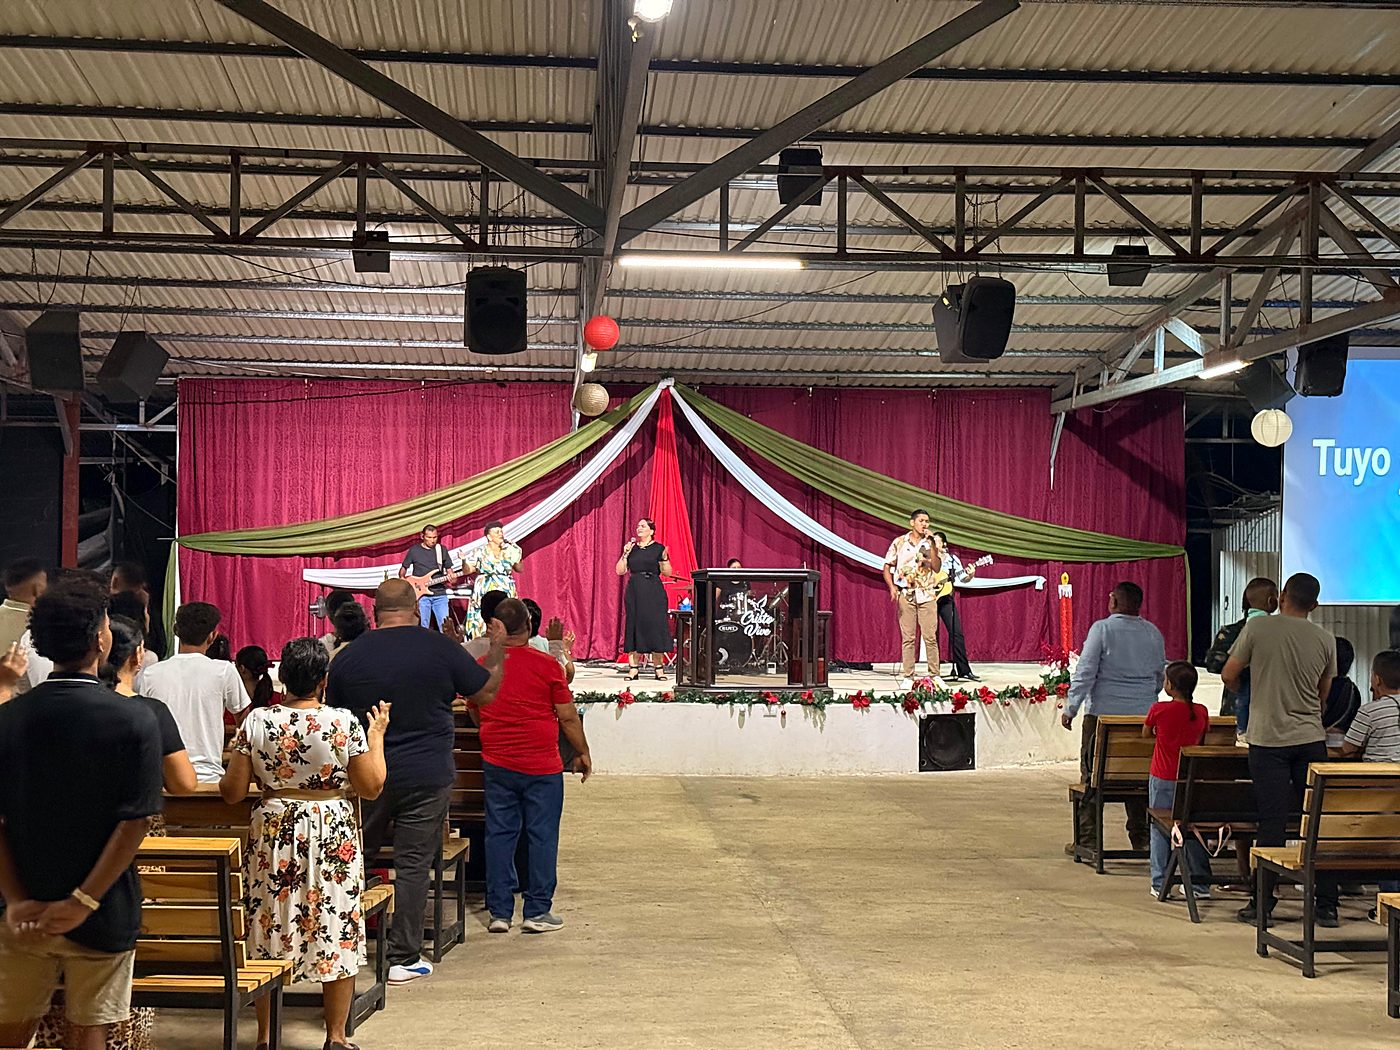
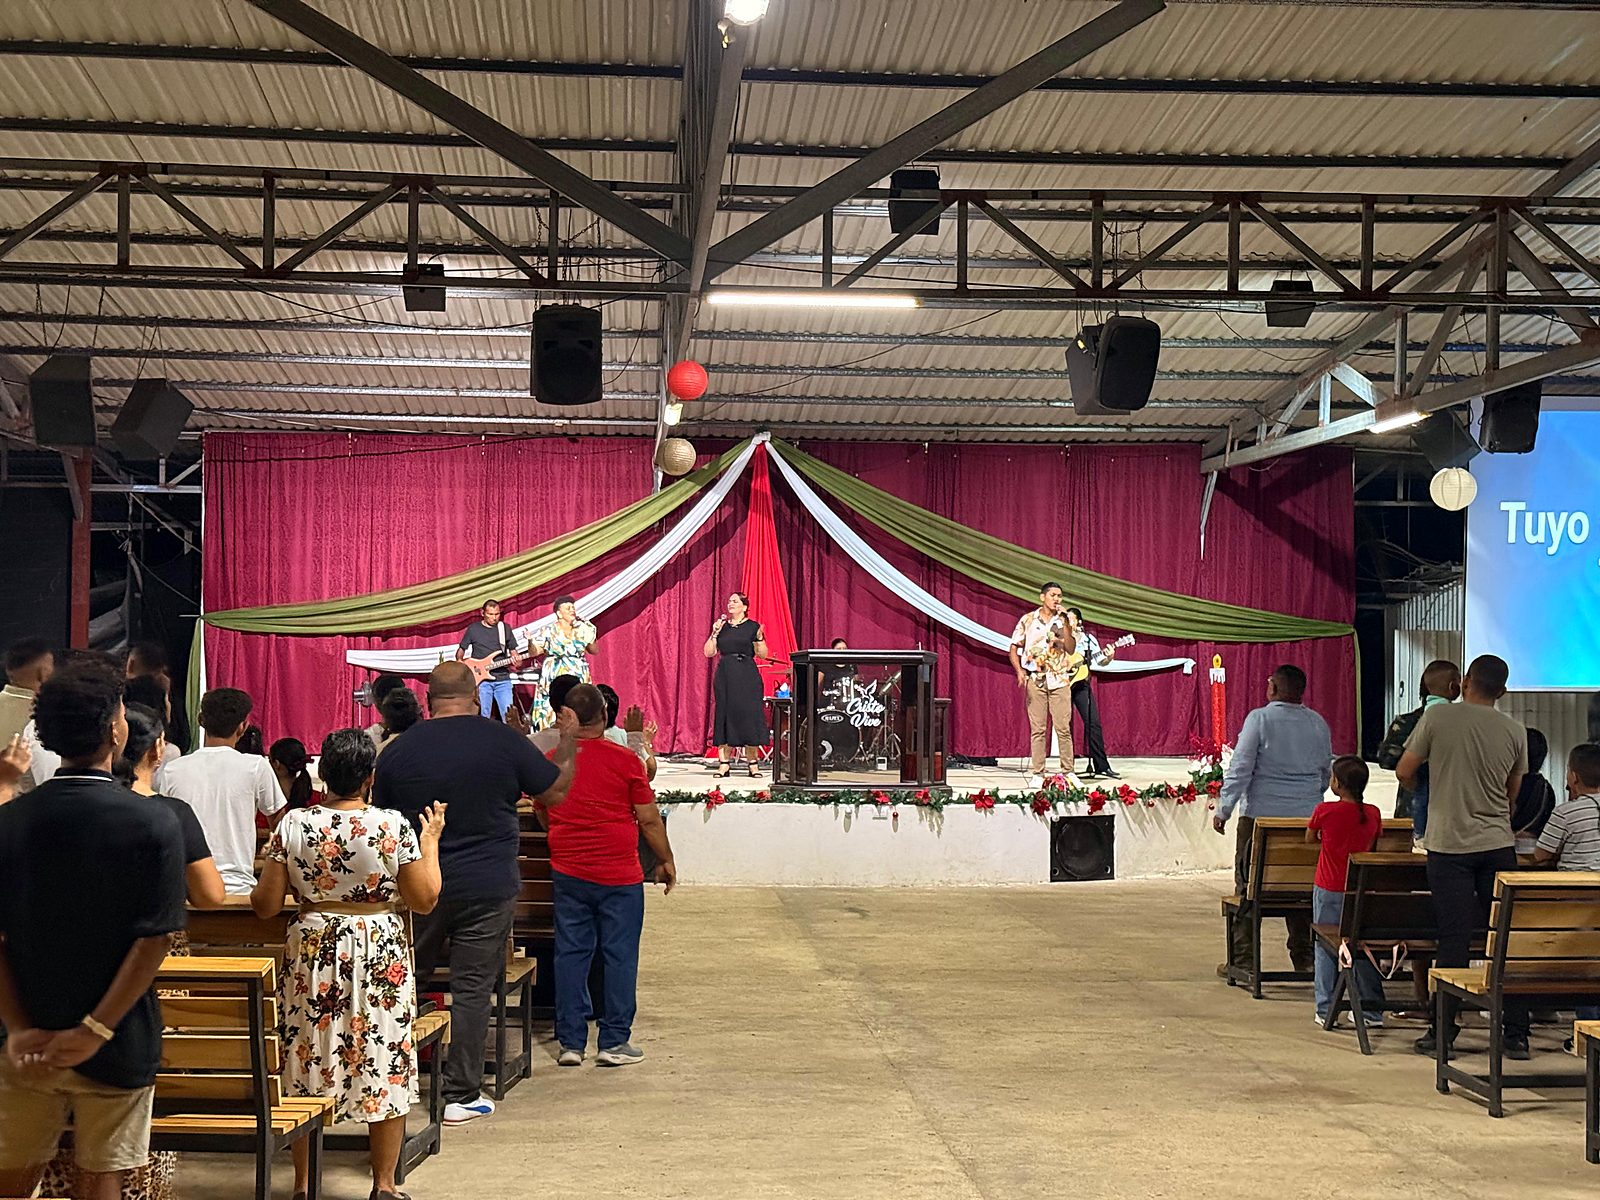
Culto principal destacado con 6 fotos y nueva foto de adoración en el carrusel
Claude-Session: https://claude.ai/code/session_01LSRJ8buBnGyMUFCBfuYfj6

diff --git a/index.html b/index.html
@@ -13,7 +13,7 @@
   <link href="https://fonts.googleapis.com/css2?family=Manrope:wght@400;500;600;700;800&family=Roboto+Slab:wght@400;500&display=swap" rel="stylesheet">
 
   <link rel="stylesheet" href="styles.css?v=8">
-  <link rel="stylesheet" href="extras.css?v=6">
+  <link rel="stylesheet" href="extras.css?v=7">
 
   <!-- Ícono de pestaña y vista previa al compartir -->
   <link rel="icon" type="image/png" sizes="32x32" href="favicon-32.png">
@@ -297,6 +297,64 @@
 
         <div class="agenda-grid">
 
+          <!-- SÁBADO · CULTO PRINCIPAL (va primero y a todo el ancho) -->
+          <article class="event featured event-principal">
+            <button class="event-toggle" type="button"
+                    aria-expanded="false" aria-controls="fotos-culto">
+
+              <span class="event-day">Sábado</span>
+
+              <span class="event-body">
+                <span class="time">7:00 p. m.</span>
+                <span class="event-badge">Culto principal</span>
+                <h3>Culto congregacional</h3>
+                <p>Nos reunimos como iglesia para adorar y compartir la fe.</p>
+                <span class="place">Nueva sede · Paquera</span>
+                <span class="event-more">Ver fotos <i>+</i></span>
+              </span>
+
+            </button>
+
+            <div class="event-panel" id="fotos-culto">
+              <div class="event-panel-inner">
+                <div class="event-photos">
+
+                  <figure class="event-photo">
+                    <img src="fotos/culto-1.jpg" alt="Culto congregacional, fotografía 1" loading="lazy">
+                    <span class="event-photo-empty">Foto 1</span>
+                  </figure>
+
+                  <figure class="event-photo">
+                    <img src="fotos/culto-2.jpg" alt="Culto congregacional, fotografía 2" loading="lazy">
+                    <span class="event-photo-empty">Foto 2</span>
+                  </figure>
+
+                  <figure class="event-photo">
+                    <img src="fotos/culto-3.jpg" alt="Culto congregacional, fotografía 3" loading="lazy">
+                    <span class="event-photo-empty">Foto 3</span>
+                  </figure>
+
+                  <figure class="event-photo">
+                    <img src="fotos/culto-4.jpg" alt="Culto congregacional, fotografía 4" loading="lazy">
+                    <span class="event-photo-empty">Foto 4</span>
+                  </figure>
+
+                  <figure class="event-photo">
+                    <img src="fotos/culto-5.jpg" alt="Culto congregacional, fotografía 5" loading="lazy">
+                    <span class="event-photo-empty">Foto 5</span>
+                  </figure>
+
+                  <figure class="event-photo">
+                    <img src="fotos/culto-6.jpg" alt="Culto congregacional, fotografía 6" loading="lazy">
+                    <span class="event-photo-empty">Foto 6</span>
+                  </figure>
+
+                </div>
+              </div>
+            </div>
+          </article>
+
+
           <!-- MARTES -->
           <article class="event">
             <button class="event-toggle" type="button"
@@ -414,48 +472,6 @@
 
                   <figure class="event-photo">
                     <img src="fotos/jovenes-3.jpg" alt="Red de jóvenes, fotografía 3" loading="lazy">
-                    <span class="event-photo-empty">Foto 3</span>
-                  </figure>
-
-                </div>
-              </div>
-            </div>
-          </article>
-
-
-          <!-- SÁBADO -->
-          <article class="event featured">
-            <button class="event-toggle" type="button"
-                    aria-expanded="false" aria-controls="fotos-culto">
-
-              <span class="event-day">Sábado</span>
-
-              <span class="event-body">
-                <span class="time">7:00 p. m.</span>
-                <h3>Culto congregacional</h3>
-                <p>Nos reunimos como iglesia para adorar y compartir la fe.</p>
-                <span class="place">Nueva sede · Paquera</span>
-                <span class="event-more">Ver fotos <i>+</i></span>
-              </span>
-
-            </button>
-
-            <div class="event-panel" id="fotos-culto">
-              <div class="event-panel-inner">
-                <div class="event-photos">
-
-                  <figure class="event-photo">
-                    <img src="fotos/culto-1.jpg" alt="Culto congregacional, fotografía 1" loading="lazy">
-                    <span class="event-photo-empty">Foto 1</span>
-                  </figure>
-
-                  <figure class="event-photo">
-                    <img src="fotos/culto-2.jpg" alt="Culto congregacional, fotografía 2" loading="lazy">
-                    <span class="event-photo-empty">Foto 2</span>
-                  </figure>
-
-                  <figure class="event-photo">
-                    <img src="fotos/culto-3.jpg" alt="Culto congregacional, fotografía 3" loading="lazy">
                     <span class="event-photo-empty">Foto 3</span>
                   </figure>
 

diff --git a/extras.css b/extras.css
@@ -621,9 +621,59 @@
 
 /* ---------- Encuadre de las fotos del carrusel (primera capa = degradado) ---------- */
 
-.hero .slide:nth-of-type(1) { background-position: 0 0, center 82%; }
+.hero .slide:nth-of-type(1) { background-position: 0 0, center 58%; }
 .hero .slide:nth-of-type(2) { background-position: 0 0, center 65%; }
 .hero .slide:nth-of-type(3) { background-position: 0 0, center 22%; }
+
+
+/* ---------- Culto principal: primero, a todo el ancho y con más fotos ---------- */
+
+.event-principal {
+  grid-column: 1 / -1;
+  border-top: 4px solid var(--gold, #e5b957);
+  box-shadow: 0 14px 34px rgba(7, 29, 73, .1);
+}
+
+.event-principal .event-body {
+  padding-top: 28px;
+  padding-bottom: 28px;
+}
+
+.event-principal h3 {
+  font-size: 1.45rem;
+}
+
+.event-badge {
+  display: inline-block;
+  margin-left: 8px;
+  padding: 5px 11px;
+  background: var(--navy, #071d49);
+  color: var(--gold-light, #f5df9d);
+  font-size: .68rem;
+  font-weight: 800;
+  letter-spacing: .12em;
+  text-transform: uppercase;
+  vertical-align: top;
+}
+
+/* Con 6 fotos: 3 columnas en computadora y 2 en celular, sin foto suelta al final */
+.event-principal .event-photos {
+  grid-template-columns: repeat(3, minmax(0, 1fr));
+  gap: 12px;
+  padding: 16px;
+}
+
+@media (max-width: 900px) {
+  .event-principal .event-photos {
+    grid-template-columns: repeat(2, minmax(0, 1fr));
+    padding: 10px;
+    gap: 8px;
+  }
+
+  .event-principal .event-photo:last-child {
+    grid-column: auto;
+  }
+}
 
 
 /* ---------- Mapas incrustados en Ubicaciones ---------- */
